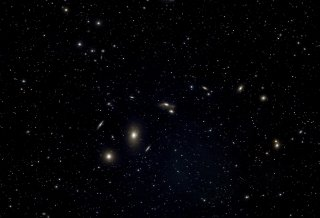
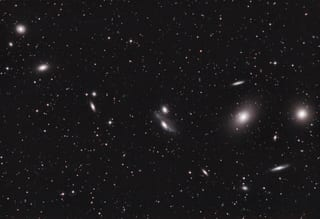
chore(catalogue): 馬卡良長鍊換 Wikimedia 新圖 (#85)
* chore(catalogue): Sh 2-274 改名美杜莎星雲、換 ESO VLT 新圖，視徑改為 0°11'

* chore(catalogue): 馬卡良長鍊換 Wikimedia 新圖（Taavi Niittee CC BY-SA 4.0）

---------

diff --git a/public/assets/catalogue.js b/public/assets/catalogue.js
@@ -42,7 +42,7 @@ window.CATALOGUE = {"legend":{"title":"各月份最適觀測深空天體列表",
   {"i":40,"mag":10.7,"magText":"10.7","size":3.0,"sizeText":"0°03'","ids":["NGC4038"],"cats":["NGC"],"label":"觸鬚星系","ra":12.039722,"raText":"12h 02m 23s","dec":-18.920556,"decText":"-18°55'14\"","con":"Crv","conName":"烏鴉座","img":{"thumb":"assets/photos/catalogue-040-thumb.jpg","full":"assets/photos/catalogue-040.jpg","source":"https://en.wikipedia.org/wiki/Antennae_Galaxies","credit":"Wikipedia","title":"Antennae Galaxies"}},
   {"i":41,"mag":9.7,"magText":"9.7","size":19.0,"sizeText":"0°19'","ids":["NGC4236"],"cats":["NGC"],"label":"星系","ra":12.285833,"raText":"12h 17m 09s","dec":69.41,"decText":"+69°24'36\"","con":"Dra","conName":"天龍座","img":{"thumb":"assets/photos/catalogue-041-thumb.jpg","full":"assets/photos/catalogue-041.jpg","source":"https://en.wikipedia.org/wiki/NGC_4236","credit":"Wikipedia","title":"NGC 4236"}},
   {"i":42,"mag":8.3,"magText":"8.3","size":18.0,"sizeText":"0°18'","ids":["M106"],"cats":["M"],"label":"漩渦星系","ra":12.326111,"raText":"12h 19m 34s","dec":47.241944,"decText":"+47°14'31\"","con":"CVn","conName":"獵犬座","img":{"thumb":"assets/photos/catalogue-042-thumb.jpg","full":"assets/photos/catalogue-042.jpg","source":"https://en.wikipedia.org/wiki/Messier_106","credit":"Wikipedia","title":"Messier 106"}},
-  {"i":43,"mag":9.5,"magText":"9.5","size":150.0,"sizeText":"2°30'","ids":["M84","M86","M88"],"cats":["M"],"label":"Markarian's Chain 馬卡良長鍊","ra":12.471111,"raText":"12h 28m 16s","dec":12.954444,"decText":"+12°57'16\"","con":"Com","conName":"后髮座","img":{"thumb":"assets/photos/catalogue-043-thumb.jpg","full":"assets/photos/catalogue-043.jpg","source":"https://commons.wikimedia.org/wiki/File:Markarian's_Chain_in_Virgo_(49607098931).jpg","credit":"Wikimedia Commons","title":"Markarian's Chain in Virgo"}},
+  {"i":43,"mag":9.5,"magText":"9.5","size":150.0,"sizeText":"2°30'","ids":["M84","M86","M88"],"cats":["M"],"label":"Markarian's Chain 馬卡良長鍊","ra":12.471111,"raText":"12h 28m 16s","dec":12.954444,"decText":"+12°57'16\"","con":"Com","conName":"后髮座","img":{"thumb":"assets/photos/catalogue-043-thumb.jpg","full":"assets/photos/catalogue-043.jpg","source":"https://commons.wikimedia.org/wiki/File:Markarian%27s_Chain_t%C3%B5rva.jpg","credit":"Wikimedia Commons","title":"Markarian's Chain tõrva"}},
   {"i":44,"mag":9.8,"magText":"9.8","size":6.0,"sizeText":"0°06'","ids":["NGC4490"],"cats":["NGC"],"label":"繭星系","ra":12.52,"raText":"12h 31m 12s","dec":41.5775,"decText":"+41°34'39\"","con":"CVn","conName":"獵犬座","img":{"thumb":"assets/photos/catalogue-044-thumb.jpg","full":"assets/photos/catalogue-044.jpg","source":"https://en.wikipedia.org/wiki/NGC_4490","credit":"Wikipedia","title":"NGC 4490"}},
   {"i":45,"mag":1.5,"magText":"1.5","size":420.0,"sizeText":"7°00'","ids":[],"cats":[],"label":"Crux 南十字座 十字架星","ra":12.535,"raText":"12h 32m 06s","dec":-57.206111,"decText":"-57°12'22\"","con":"Cru","conName":"南十字座","img":{"thumb":"assets/photos/catalogue-045-thumb.jpg","full":"assets/photos/catalogue-045.jpg","source":"https://en.wikipedia.org/wiki/Crux#/media/File:Southern_Cross_-New_Zealand-.jpg","credit":"Wikipedia","title":"Crux 南十字座"}},
   {"i":46,"mag":9.6,"magText":"9.6","size":16.0,"sizeText":"0°16'","ids":["NGC4565"],"cats":["NGC"],"label":"細針星系","ra":12.613889,"raText":"12h 36m 50s","dec":25.934722,"decText":"+25°56'05\"","con":"Com","conName":"后髮座","img":{"thumb":"assets/photos/catalogue-046-thumb.jpg","full":"assets/photos/catalogue-046.jpg","source":"https://en.wikipedia.org/wiki/NGC_4565","credit":"Wikipedia","title":"NGC 4565"}},

diff --git a/public/index.html b/public/index.html
@@ -1871,7 +1871,7 @@
 
   // Bump this when any local photo file is replaced, so browsers bypass
   // their cached copy and fetch the new image instead of showing the old one.
-  var IMG_VER = "20261101b";
+  var IMG_VER = "20261105a";
   function imgUrl(u) {
     if (!u) return u;
     if (u.indexOf("assets/photos/") === 0 || u.indexOf("./assets/photos/") === 0) {
